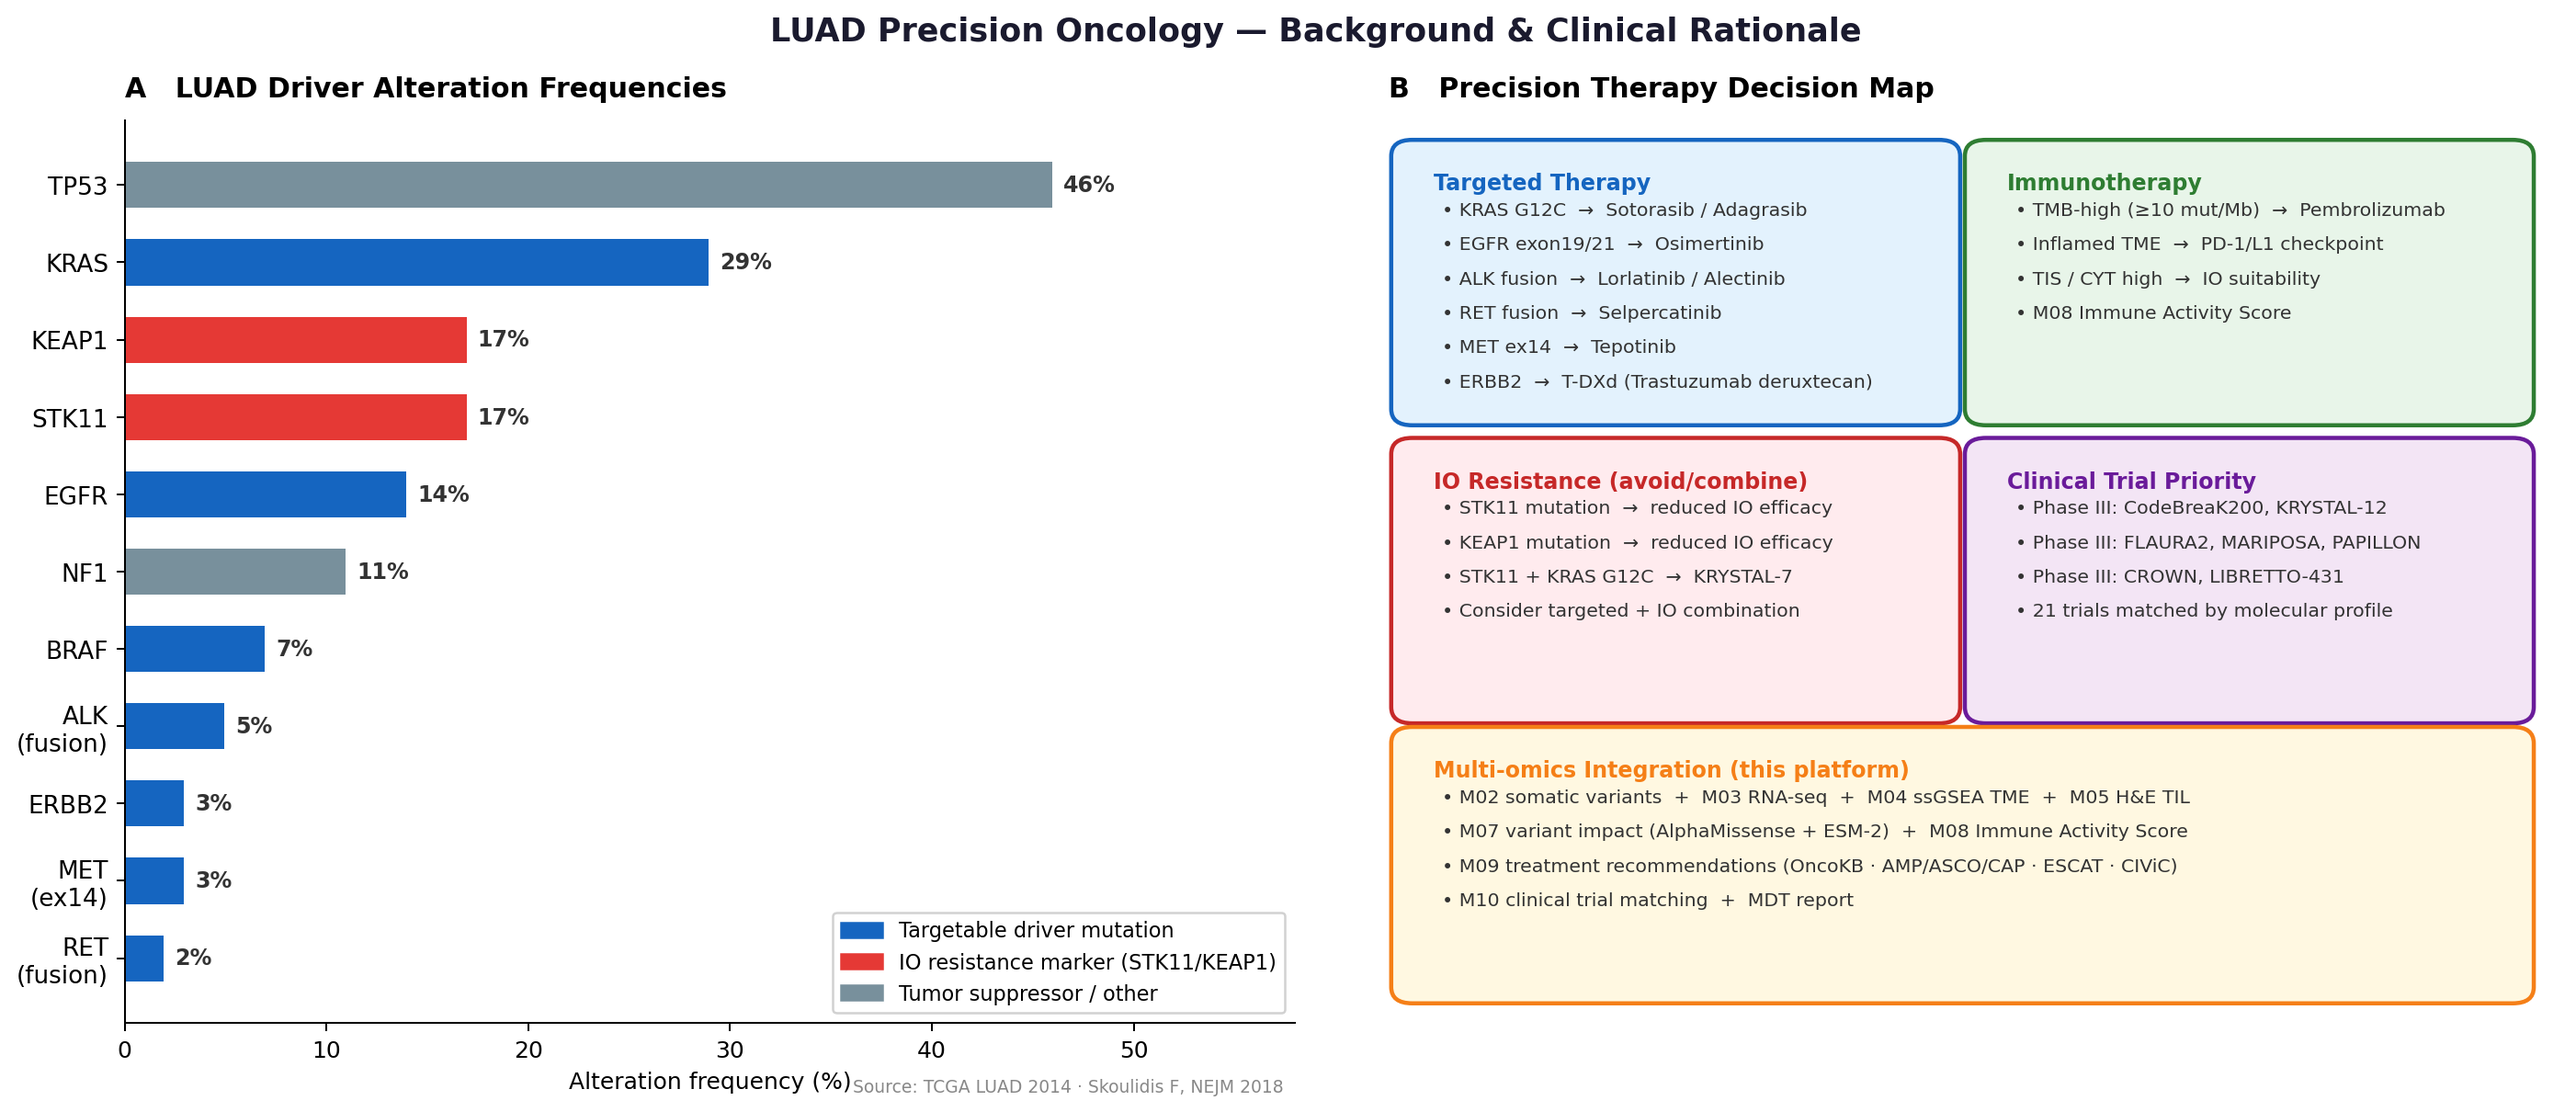
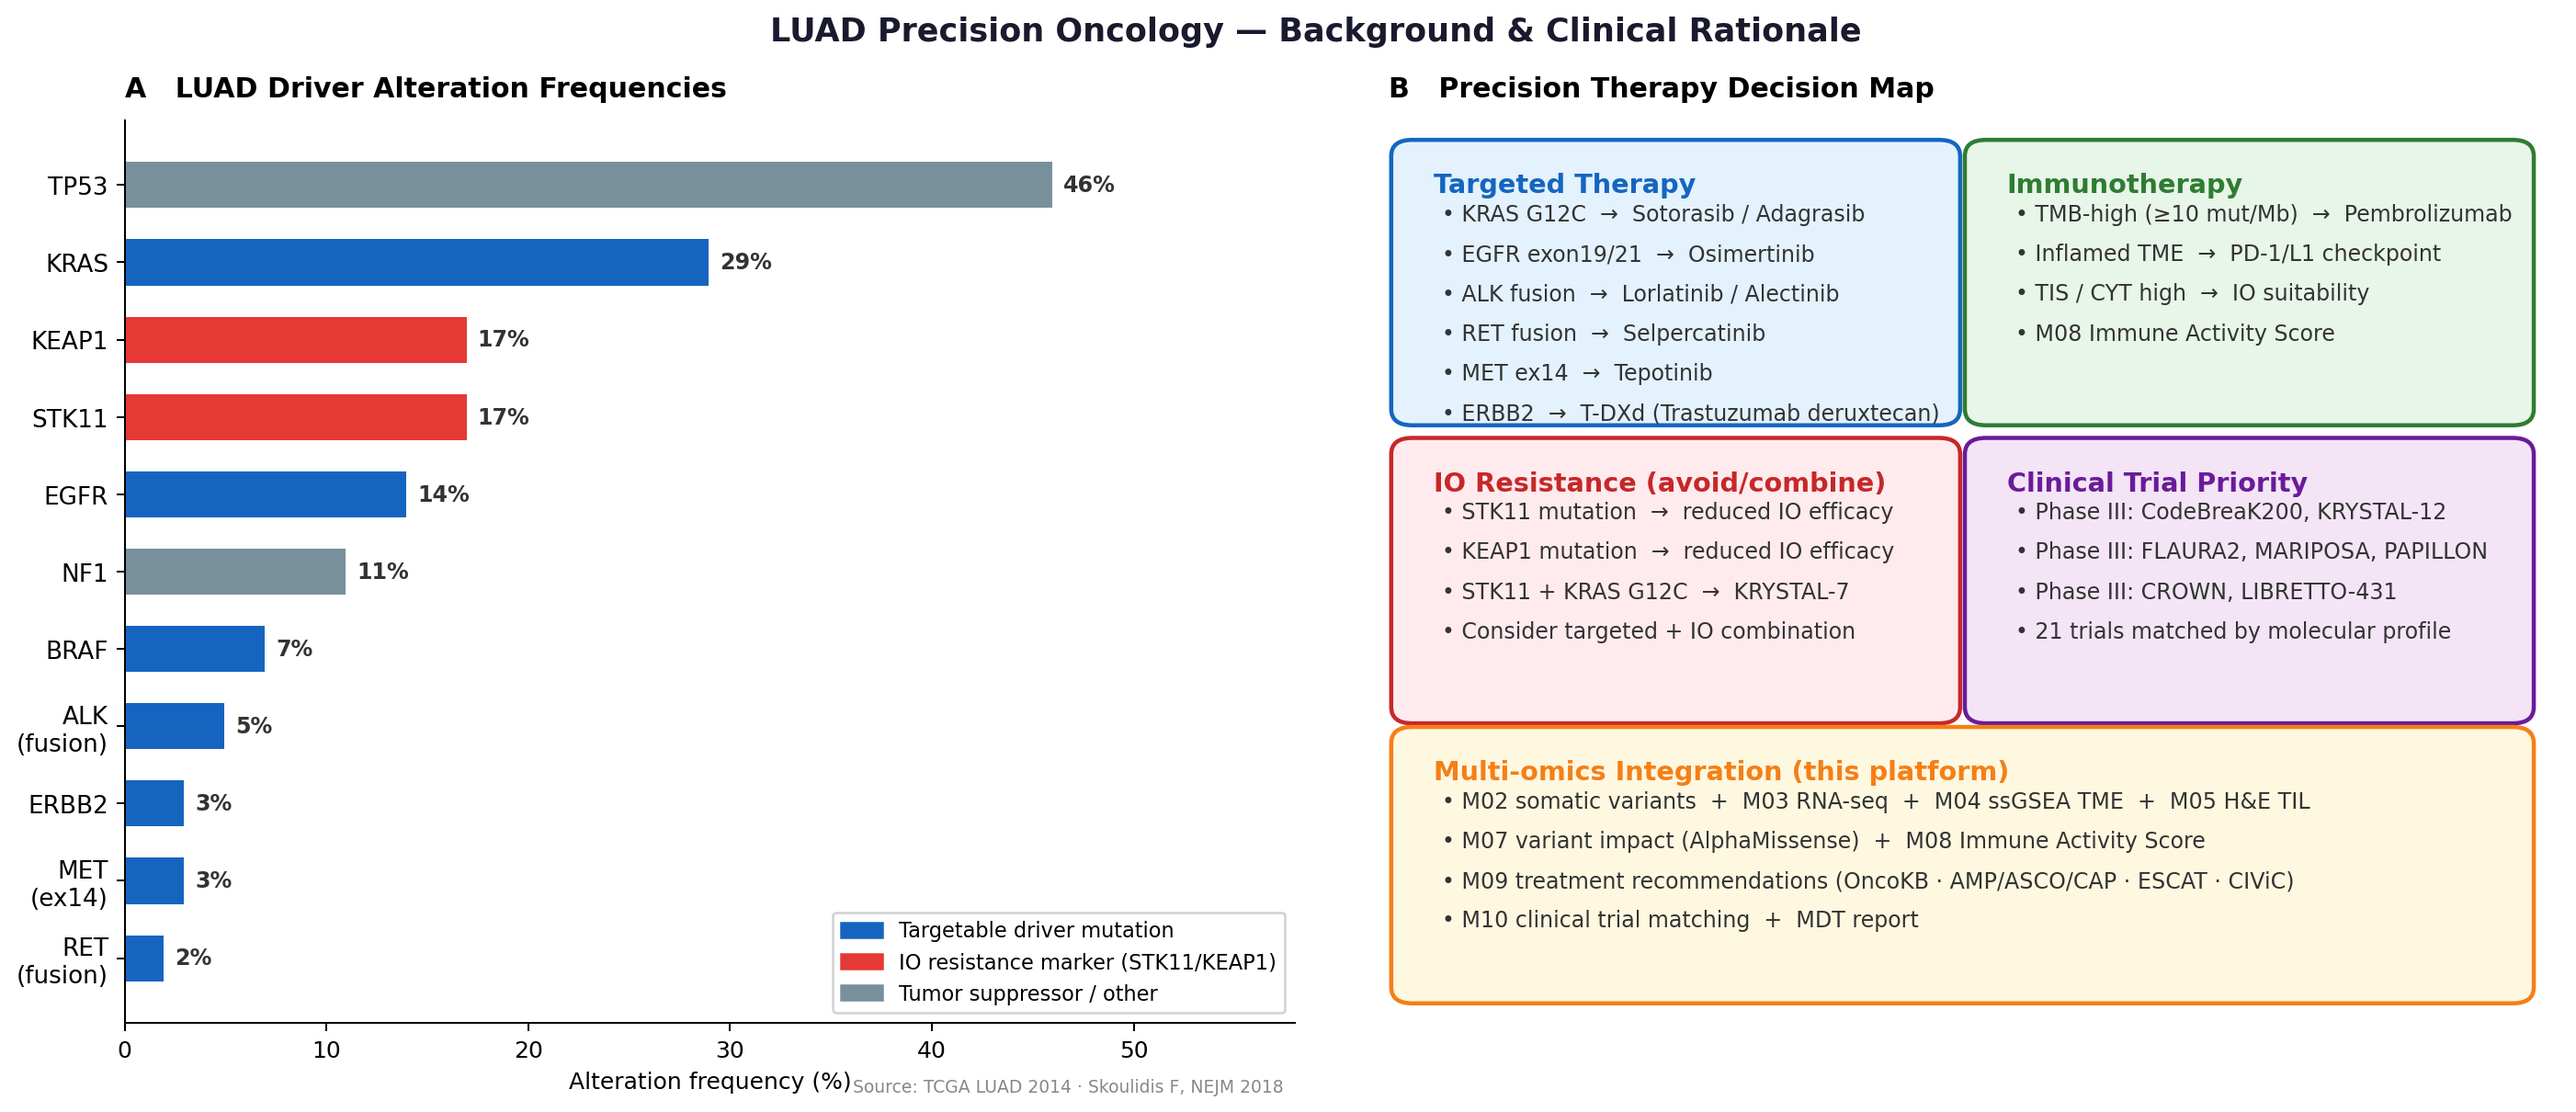
Home: rename M09/M10, remove ESM-2, add contact info, enlarge fonts, improve pipeline figure layout
- M09: "Multimodal Integration" → "Treatment Recommendation"
- M10: "Clinical Recommendation" → "Trial Matching & MDT Report"
- Remove all ESM-2/ESM2 references from UI (badge, module card, data table, methods text)
- Add contact info (Yujuan Zhang, PhD | Professor) in hero banner top-right
- Background section: add imaging/pathology to "multi-modal immune profiling" description
- Pipeline figure: increase column gap (0.47→1.00), wider module spacing, larger fonts throughout
- M09/M10 bars narrowed (margin 0.60→1.80), Dashboard bar narrowed (2.80→3.80) — funnel layout
- Section 1 Panel B: box title 9.5→11.5pt, bullet text 8.2→9.5pt

diff --git a/streamlit_app.py b/streamlit_app.py
@@ -97,7 +97,7 @@ def patients_for_page(page: str) -> list:
     idx = load_cohort_index()
     if page in ("07 · Variant Impact",):
         return idx[idx.has_wes]["sample_id"].tolist()
-    if page in ("09 · Multimodal Integration", "10 · Clinical Recommendation"):
+    if page in ("09 · Treatment Recommendation", "10 · Trial Matching & MDT Report"):
         return idx[idx.has_wes & idx.has_rnaseq]["sample_id"].tolist()
     if page in ("05 · Pathology",):
         return idx[idx.has_pathology]["sample_id"].tolist()
@@ -231,7 +231,7 @@ def make_pipeline_figure():
         size=8.5, bold=True, color="#e65100", ha="left")
     fbox(4.4, 3.20, bw, 0.95, "white", "#e65100", lw=1.5)
     txt(4.4 + bw / 2, 3.20 + 0.95 * 0.70, "M06", size=10, bold=True, color="#e65100")
-    txt(4.4 + bw / 2, 3.20 + 0.95 * 0.28, "ESM2\nEmbeddings", size=7.5, color="#333")
+    txt(4.4 + bw / 2, 3.20 + 0.95 * 0.28, "AlphaMissense\nScoring", size=7.5, color="#333")
     arrow_dn(5.6, 3.05, 2.37)
 
     # DASHBOARD
@@ -269,15 +269,15 @@ with st.sidebar:
             "06 · Pathway",
             "07 · Variant Impact",
             "08 · Multi-modal Immune Activity Score",
-            "09 · Multimodal Integration",
-            "10 · Clinical Recommendation",
+            "09 · Treatment Recommendation",
+            "10 · Trial Matching & MDT Report",
         ],
         label_visibility="collapsed",
     )
 
     st.divider()
     st.caption("Data: TCGA-LUAD · GSE131907")
-    st.caption("Model: ESM2-650M · PCGR v2.2.5")
+    st.caption("Model: AlphaMissense · PCGR v2.2.5")
 
 
 # ══════════════════════════════════════════════════════════════════════════════
@@ -317,6 +317,14 @@ if page == "Home":
     .badge-teal   { border-color:#26a69a; color:#80cbc4; }
     .badge-red    { border-color:#ef9a9a; color:#ef9a9a; }
     </style>
+    <div style="text-align:right; font-size:0.80rem; color:#555;
+                line-height:1.7; margin-bottom:8px;">
+        Any questions please contact
+        <strong>Yujuan Zhang, PhD | Professor</strong>
+        &nbsp;·&nbsp;
+        <a href="mailto:yujuan.zhang418@gmail.com"
+           style="color:#1565c0; text-decoration:none;">yujuan.zhang418@gmail.com</a>
+    </div>
     <div class="hero-banner">
         <div class="hero-accent"></div>
         <div class="hero-eyebrow">Precision Oncology &nbsp;·&nbsp; Multi-Omics &nbsp;·&nbsp; TCGA-LUAD &nbsp;·&nbsp; n = 517 patients</div>
@@ -329,7 +337,7 @@ if page == "Home":
         <div class="badge-row">
             <span class="badge badge-blue">TCGA-LUAD · n=517</span>
             <span class="badge badge-green">CoxNet · C-index 0.786</span>
-            <span class="badge badge-purple">AlphaMissense · ESM-2 650M</span>
+            <span class="badge badge-purple">AlphaMissense</span>
             <span class="badge badge-orange">OncoKB · AMP/ASCO/CAP · ESCAT</span>
             <span class="badge badge-teal">21 Clinical Trials</span>
             <span class="badge badge-red">STK11/KEAP1 IO Resistance</span>
@@ -355,12 +363,12 @@ accounting for ~40% of all lung cancer diagnoses and remaining a leading cause o
 LUAD is driven by **highly heterogeneous somatic mutations** — a patient with *EGFR* exon 19 deletion
 responds dramatically to osimertinib, while a patient with *STK11* loss may derive little benefit
 from PD-1 checkpoint immunotherapy even with high TMB.
-Identifying the precise molecular profile of each patient is therefore the **foundation of effective treatment selection**.
+Identifying the precise **molecular and histopathological profile** of each patient — spanning genomics, transcriptomics, and imaging — is therefore the **foundation of effective treatment selection**.
 
 **Three clinical challenges** this platform addresses:
 - **Fragmented tools**: Standard workflows require 5+ disconnected tools (VEP, TMB calculator, pathway tools, drug databases, literature search) — this platform unifies all into one pipeline
-- **Beyond binary classification**: AlphaMissense + ESM-2 protein language models quantify the structural damage of each missense mutation, beyond rule-based ClinVar/OncoKB labels
-- **Multi-modal immune profiling**: RNA-seq + digital pathology TIL + genomic mutation context → a CoxNet-based immune activity score that predicts IO suitability with C-index 0.786
+- **Beyond binary classification**: AlphaMissense quantifies the structural damage of each missense mutation, beyond rule-based ClinVar/OncoKB labels
+- **Multi-modal immune profiling**: RNA-seq (ssGSEA TME deconvolution) + H&E digital pathology imaging (TIL density and spatial distribution) + genomic mutation context (TMB, STK11/KEAP1) → comprehensive immune microenvironment characterization to guide IO treatment decisions
     """)
 
     _bg_fig = HOME_FIGS / "background_luad.png"
@@ -406,10 +414,10 @@ Identifying the precise molecular profile of each patient is therefore the **fou
 | M04 | ssGSEA TME deconvolution | GSE131907 ref | 517 |
 | M05 | H&E TIL density (digital pathology) | GDC TCGA | 517 |
 | M06 | Pathway enrichment (ORA/GSEA) | MSigDB/KEGG | 517 |
-| M07 | Variant impact (AlphaMissense/ESM-2) | MAF | 241 ¹ |
+| M07 | Variant impact (AlphaMissense) | MAF | 241 ¹ |
 | M08 | Multi-modal immune activity score | M02–M05 | 517 |
-| M09 | Treatment recommendation | M02–M08 | 271 |
-| M10 | Clinical trial matching + MDT report | M09 | 271 |
+| M09 | Treatment recommendation | M02–M05, M07 | 271 |
+| M10 | Trial matching & MDT report | M09 | 271 |
 
 ¹ M07 only scores samples carrying protein-altering mutations in druggable genes (KRAS, EGFR, ALK, etc.)
         """)
@@ -424,9 +432,9 @@ Identifying the precise molecular profile of each patient is therefore the **fou
     st.markdown("""
 The platform is organized into **10 analysis modules** across three functional layers:
 
-- **Molecular characterization (M01–M07)**: Independent modules running in parallel — patient survival context, somatic variant annotation (VEP/PCGR), bulk RNA-seq expression, single-cell TME deconvolution (ssGSEA), digital pathology (H&E/TIL), pathway enrichment (ORA/GSEA), and protein variant impact (AlphaMissense + ESM-2)
-- **Immune activity scoring (M08)**: Two-stage CoxNet pipeline — genome-wide RNA variance filter → univariate Cox Wald test → CoxNet feature selection → final multi-modal model with TIS/CYT/IMPRES signatures + ssGSEA TME + TIL + mutations + clinical covariates · Bootstrap C-index 0.786 · External validation 0.640
-- **Clinical translation (M09–M10)**: Multi-omics evidence integration with OncoKB/AMP-ASCO-CAP/ESCAT grading → ranked treatment recommendations → clinical trial matching (21 curated LUAD trials) + MDT report
+- **Molecular characterization (M01–M07)**: Independent modules running in parallel — patient survival context, somatic variant annotation (VEP/PCGR), bulk RNA-seq expression, single-cell TME deconvolution (ssGSEA), digital pathology (H&E/TIL), pathway enrichment (ORA/GSEA), and protein variant impact (AlphaMissense)
+- **Prognostic modeling (M08)**: Multi-modal prognostic risk score — two-stage CoxNet pipeline integrating RNA signatures (TIS/CYT/IMPRES) + ssGSEA TME + TIL density + mutations + clinical covariates · Bootstrap C-index 0.786 · External validation GSE72094 C-index 0.640
+- **Clinical translation (M09–M10)**: Treatment recommendation engine (OncoKB/AMP-ASCO-CAP/ESCAT/CIViC evidence grading → ranked targeted / IO / chemo recommendations) → clinical trial matching (21 curated LUAD trials) + one-page MDT report
     """)
 
     _pipe_fig = HOME_FIGS / "pipeline_figure.png"
@@ -495,8 +503,8 @@ The platform is organized into **10 analysis modules** across three functional l
       <div class="mod-card">
         <span class="mod-id" style="background:#e65100;">07</span>
         <span class="mod-name">Variant Impact</span>
-        <div class="mod-desc">AlphaMissense (Google DeepMind) pathogenicity scoring · ESM-2 650M protein language model embeddings · missense variant structural impact quantification</div>
-        <span class="mod-tag">AlphaMissense</span><span class="mod-tag">ESM-2</span><span class="mod-tag">DL</span>
+        <div class="mod-desc">AlphaMissense pathogenicity scoring · missense variant structural impact quantification · position-specific pathogenicity map</div>
+        <span class="mod-tag">AlphaMissense</span><span class="mod-tag">Variant Impact</span>
       </div>
 
       <div class="mod-card">
@@ -508,14 +516,14 @@ The platform is organized into **10 analysis modules** across three functional l
 
       <div class="mod-card">
         <span class="mod-id" style="background:#283593;">09</span>
-        <span class="mod-name">Multi-omics Integration</span>
-        <div class="mod-desc">Integrates M02+M03+M04+M05+M08 · OncoKB / AMP-ASCO-CAP / ESCAT / CIViC evidence grading · confidence-scored targeted / IO / combination / chemo recommendations</div>
-        <span class="mod-tag">Integration</span><span class="mod-tag">OncoKB</span><span class="mod-tag">CIViC</span>
+        <span class="mod-name">Treatment Recommendation</span>
+        <div class="mod-desc">Integrates M02+M03+M04+M05 · OncoKB / AMP-ASCO-CAP / ESCAT / CIViC evidence grading · confidence-scored targeted / IO / combination / chemo recommendations</div>
+        <span class="mod-tag">Treatment Strategy</span><span class="mod-tag">OncoKB</span><span class="mod-tag">CIViC</span>
       </div>
 
       <div class="mod-card">
         <span class="mod-id" style="background:#1b5e20;">10</span>
-        <span class="mod-name">Clinical Recommendation</span>
+        <span class="mod-name">Trial Matching & MDT Report</span>
         <div class="mod-desc">21 curated LUAD clinical trials (Phase I–III) · mutation/TMB/TME-based trial matching · Eligible vs Potentially Eligible · one-page MDT report (7-panel figure)</div>
         <span class="mod-tag">Trial Matching</span><span class="mod-tag">MDT Report</span><span class="mod-tag">NCCN</span>
       </div>
@@ -525,15 +533,6 @@ The platform is organized into **10 analysis modules** across three functional l
 
     # ── Footer ────────────────────────────────────────────────────────────────
     st.divider()
-    st.markdown("""
-    <div style="text-align:center; color:#666; font-size:0.85rem; padding: 8px 0 16px 0;">
-        Any questions please contact <strong>Yujuan Zhang, PhD</strong>
-        &nbsp;·&nbsp;
-        <a href="mailto:yujuan.zhang418@gmail.com" style="color:#1565c0; text-decoration:none;">
-            yujuan.zhang418@gmail.com
-        </a>
-    </div>
-    """, unsafe_allow_html=True)
 
 
 # ══════════════════════════════════════════════════════════════════════════════
@@ -1404,8 +1403,8 @@ elif page == "05 · Pathology":
 # 09 · MULTIMODAL INTEGRATION
 # ══════════════════════════════════════════════════════════════════════════════
 
-elif page == "09 · Multimodal Integration":
-    st.header("09 · Multimodal Integration")
+elif page == "09 · Treatment Recommendation":
+    st.header("09 · Treatment Recommendation")
     st.caption(
         "Multi-omics evidence integration · M02 somatic variants + M03 expression + "
         "M04 ssGSEA TME + M05 TIL + M08 Immune Activity Score · "
@@ -1528,7 +1527,7 @@ elif page == "09 · Multimodal Integration":
     st.subheader("Per-Patient Recommendation")
 
     integration_dir = OUTPUT / "09_integration"
-    _m09_all = patients_for_page("09 · Multimodal Integration")
+    _m09_all = patients_for_page("09 · Treatment Recommendation")
     available = sorted([
         s for s in _m09_all
         if (integration_dir / s / f"{s}_recommendation.tsv").exists()
@@ -1877,8 +1876,8 @@ elif page == "08 · Multi-modal Immune Activity Score":
 # 10 · CLINICAL RECOMMENDATION
 # ══════════════════════════════════════════════════════════════════════════════
 
-elif page == "10 · Clinical Recommendation":
-    st.header("10 · Clinical Recommendation")
+elif page == "10 · Trial Matching & MDT Report":
+    st.header("10 · Trial Matching & MDT Report")
     st.caption(
         "Clinical trial matching · MDT report · "
         "21 curated LUAD trials (Phase I–III) · "
